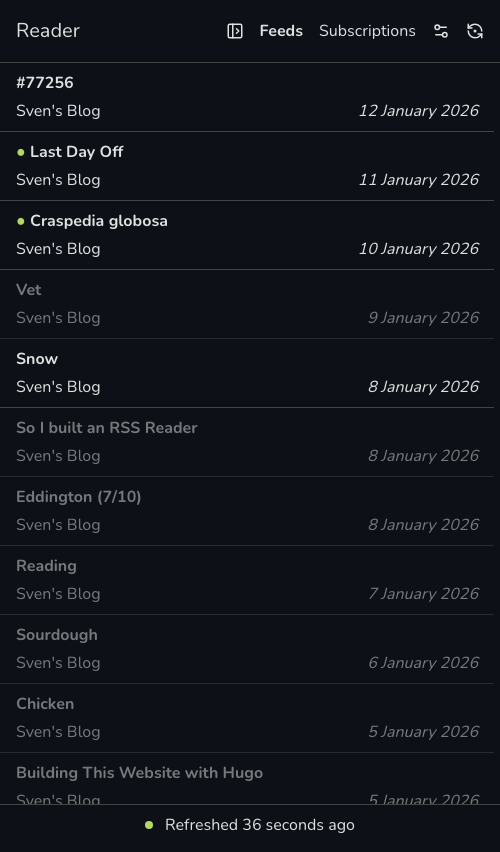
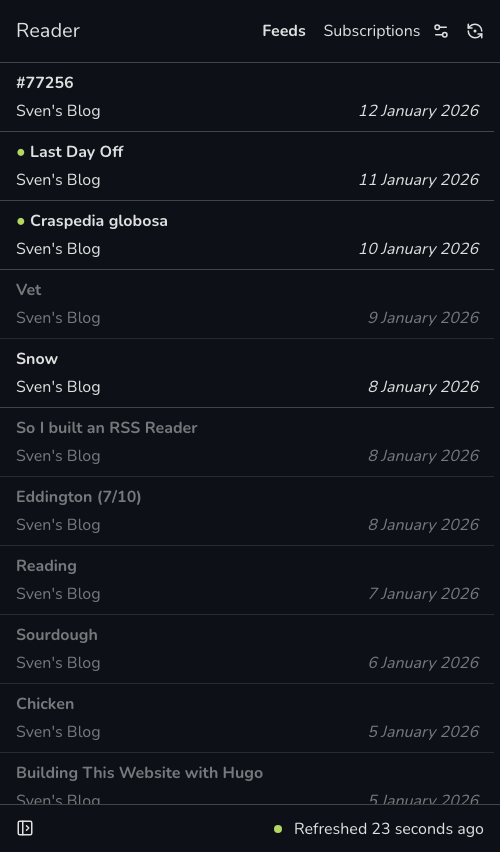
Move sidebar toggle to footer, add nav link min-widths
- Move panel toggle icons to footer for better mobile UX
- Hide toggle when reading pane is active
- Add min-width to Feeds (3.5rem) and Subscriptions (6.5rem) links
- Center text in nav links
- Reduce nav gap from md to sm
- Add extra margin before first icon button

diff --git a/assets/css/shared-base.css b/assets/css/shared-base.css
@@ -225,11 +225,15 @@ body {
         & nav {
             display: flex;
             align-items: center;
-            gap: var(--spacing-md);
+            gap: var(--spacing-sm);
 
             & .icon-btn {
                 display: flex;
                 align-items: center;
+
+                &:first-of-type {
+                    margin-left: var(--spacing-sm);
+                }
             }
 
             & .icon-btn svg {
@@ -240,6 +244,18 @@ body {
 
             & .icon-btn.active svg {
                 stroke-width: 3;
+            }
+
+            & a:not(.icon-btn) {
+                text-align: center;
+            }
+
+            & .feeds-link {
+                min-width: 3.5rem;
+            }
+
+            & a[href*="subscriptions"] {
+                min-width: 6.5rem;
             }
 
             & a.active,
@@ -253,13 +269,12 @@ body {
         border-top: 1px solid var(--color-border);
         padding: var(--spacing-sm) var(--spacing-md);
         display: flex;
-        justify-content: center;
-        align-items: flex-start;
+        justify-content: space-between;
+        align-items: center;
         min-height: 3rem;
 
         @media (width >= 768px) {
             justify-content: flex-end;
-            align-items: center;
             min-height: auto;
         }
 

diff --git a/assets/css/page-feed.css b/assets/css/page-feed.css
@@ -341,6 +341,10 @@ header h1 .back {
         display: flex;
     }
 
+    body.has-active-item .menu-toggle {
+        visibility: hidden;
+    }
+
     .menu-checkbox:checked ~ * .menu-toggle .icon-open {
         display: none;
     }
